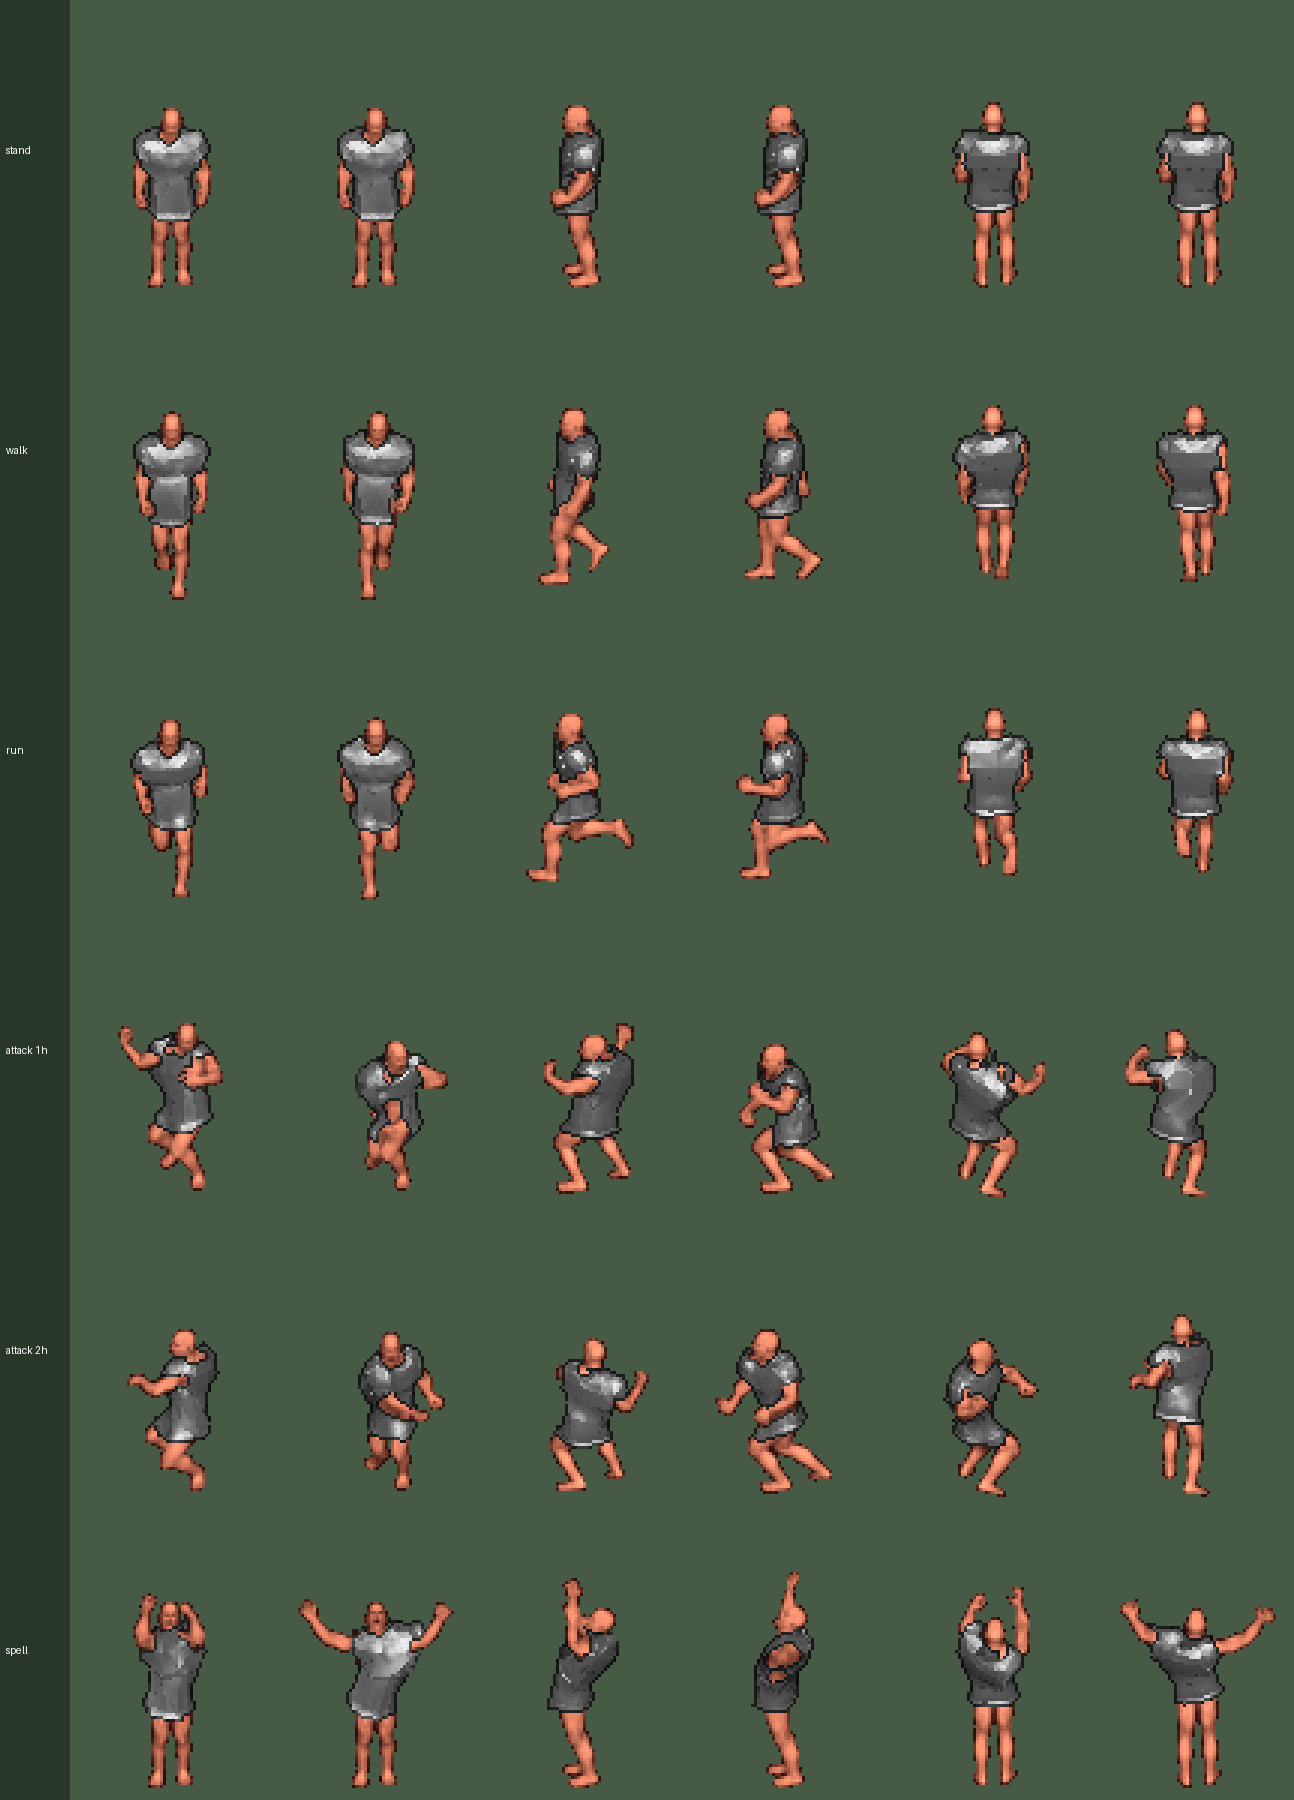
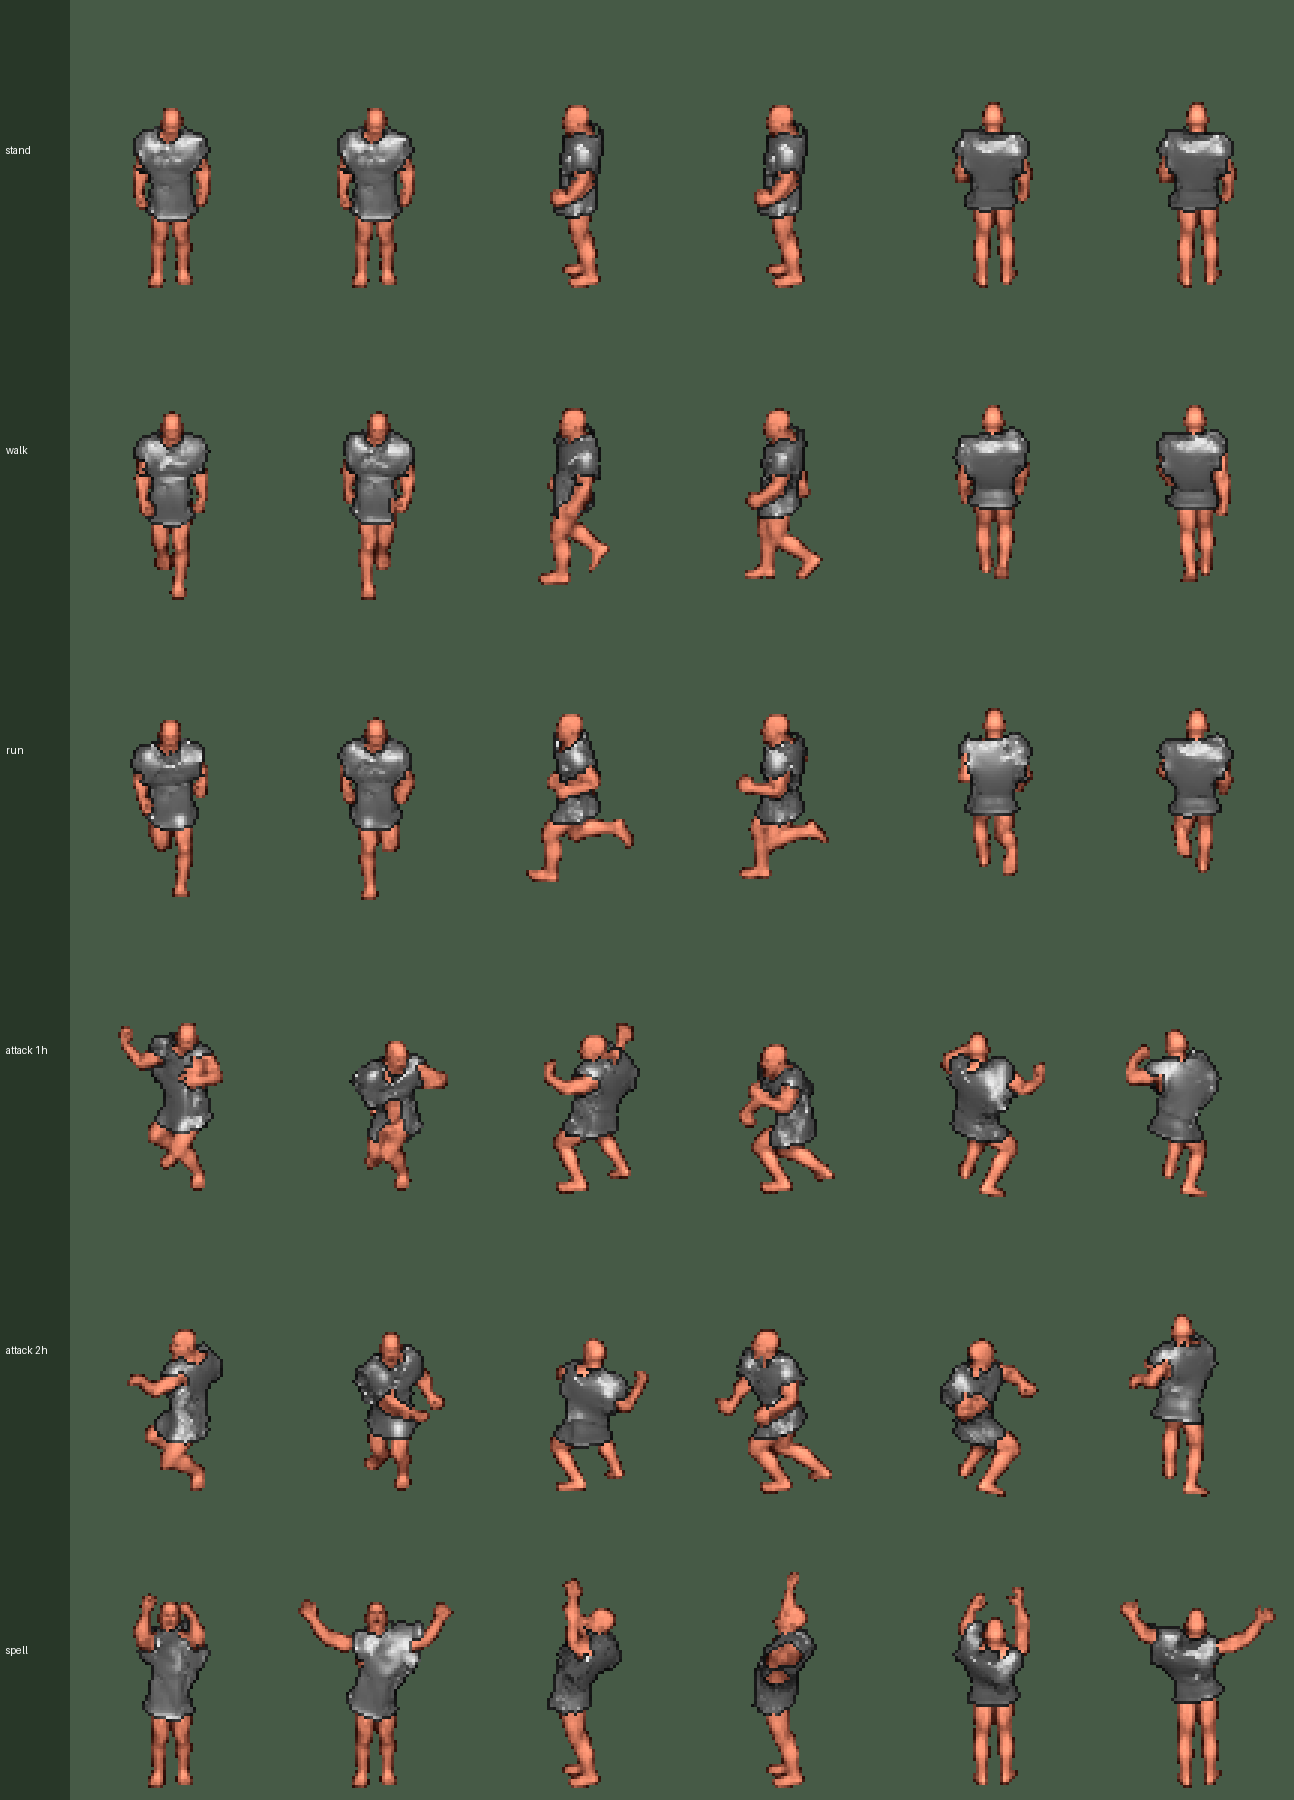
UOModel3D: armour without cracks and facets: split_model.py exports smooth normals (welded: the flat export tore cracks into the shell when densified with rounding, skin showed through), smooth_shade and densify SMOOTH 0.7, uo_pose_clear.py (arms swept through stand / walk / run poses push the rest 
Claude-Session: https://claude.ai/code/session_01VbRUYxzDnzVCbFCuHG6zFr

diff --git a/pipeline/uo_pose_clear.py b/pipeline/uo_pose_clear.py
@@ -1,0 +1,146 @@
+# Make a bound item clear the ARMS (upper arm, forearm, hand) in the poses of the animations, by changing its REST shape. uo_fit_item.py pushes an item out of the skin in the rest
+# pose only; an arm that swings down, forward or up then sinks into the plate at the side or at the armhole, and the renderer (BODY_GAP) has to bend the plate around it frame by
+# frame (bulges, edges that jump, skin showing through). Here the arm is swept through a set of poses: where a posed vertex is closer to the arm skin than GAP, the vertex is pushed out
+# along the arm's surface normal; the push is carried back to the rest shape through the vertex's own skinning matrix (the inverse of the weighted bone matrices) and the largest push over
+# all frames wins (at most CAP). Pushes are smoothed over the mesh, applied, and the next round measures again. Legs are left to the renderer (a hem over the thighs is how plate looks).
+# Run on the SELECTED bound items (uo_bind_item.py first) from Blender's Text Editor or from uo_make_item.py ("pose_clear" in a part of a recipe), then run uo_bind_item.py again
+# (the shape corrections "uo_*" follow the skin under each vertex, so they are made again for the new rest shape).
+import bpy
+import numpy as np
+from mathutils import Vector
+from mathutils.bvhtree import BVHTree
+
+ACTIONS = "04_stand,00_walk_unarmed,02_run_unarmed,07_combat_idle_1h,15_combat_advance"      # arms at the sides, forward and back: where the plate side and the armhole meet the arm. Poses that cross the arm over the body (attack, spell) are left to the renderer
+STEP = 2              # every STEP-th frame of each action
+GAP = 0.012           # m: the item stays this far from the arm skin
+CAP = 0.03            # m: the largest change of the rest shape at one vertex
+ROUNDS = 2            # measure + push + smooth rounds
+SMOOTH = 3            # smoothing passes of the pushes over the mesh edges
+AVOID = ("upper_arm", "forearm", "hand", "finger")      # body parts (vertex group names start with) the item must clear
+REPORT = True
+
+body = bpy.data.objects["UO_Body"]
+rig = bpy.data.objects["UO_Rig"]
+sc = bpy.context.scene
+
+
+def arm_triangles(mesh):
+    names = {g.index: g.name for g in body.vertex_groups}
+    isarm = np.zeros(len(body.data.vertices), bool)
+    for v in body.data.vertices:
+        w = {}
+        for g in v.groups:
+            w[names[g.group]] = w.get(names[g.group], 0.0) + g.weight
+        isarm[v.index] = sum(x for k, x in w.items() if k.startswith(AVOID)) > 0.5 * max(sum(w.values()), 1e-9)
+    return isarm
+
+
+def weight_matrix(ob):
+    """(n, bones) weights of the item's vertex groups that are bones of the rig, rows normalised"""
+    names = [b.name for b in rig.data.bones]; col = {n: i for i, n in enumerate(names)}
+    gname = {g.index: g.name for g in ob.vertex_groups}
+    W = np.zeros((len(ob.data.vertices), len(names)))
+    for v in ob.data.vertices:
+        for g in v.groups:
+            if gname[g.group] in col:
+                W[v.index, col[gname[g.group]]] += g.weight
+    s = W.sum(1, keepdims=True); W = np.where(s > 0, W / np.maximum(s, 1e-12), 0.0)
+    return W, names
+
+
+def skin_linear(W, names):
+    """per vertex: the linear part of its weighted bone matrix (rest -> posed) in the current pose: (n, 3, 3); no weights = identity"""
+    bones = rig.data.bones
+    Lb = np.stack([np.array((rig.matrix_world @ rig.pose.bones[n].matrix @ bones[n].matrix_local.inverted() @ rig.matrix_world.inverted()).to_3x3()) for n in names])
+    A = np.einsum("nb,bij->nij", W, Lb)
+    none = W.sum(1) == 0
+    A[none] = np.eye(3)
+    return A
+
+
+def evaluated_world(ob, dg):
+    ev = ob.evaluated_get(dg); me = ev.to_mesh()
+    co = np.empty(len(me.vertices) * 3, np.float32); me.vertices.foreach_get("co", co)
+    Mw = np.array(ev.matrix_world); ev.to_mesh_clear()
+    return co.reshape(-1, 3).astype(np.float64) @ Mw[:3, :3].T + Mw[:3, 3]
+
+
+def neighbours(ob):
+    e = np.empty(len(ob.data.edges) * 2, np.int32); ob.data.edges.foreach_get("vertices", e)
+    return e.reshape(-1, 2)
+
+
+def run_item(ob, acts, isarm):
+    n = len(ob.data.vertices)
+    E = neighbours(ob); W, bnames = weight_matrix(ob)
+    deg = np.bincount(E.ravel(), minlength=n).astype(float)
+    total = np.zeros((n, 3))
+    for rnd in range(ROUNDS):
+        rig.data.pose_position = "REST"; bpy.context.view_layer.update()
+        best = np.zeros((n, 3)); bestn = np.zeros(n); hits = 0; nfr = 0
+        rig.data.pose_position = "POSE"
+        for a in acts:
+            act = acts[a]
+            rig.animation_data.action = act; rig["uo_direction"] = 0
+            for i in range(0, int(act["uo_frames"]), STEP):
+                sc.frame_set(1 + i * 3); rig.update_tag(); bpy.context.view_layer.update()
+                dg = bpy.context.evaluated_depsgraph_get()
+                eb = body.evaluated_get(dg); mb = eb.to_mesh(); mb.calc_loop_triangles(); Mw = eb.matrix_world
+                co = [Mw @ v.co for v in mb.vertices]
+                tri = [t.vertices[:] for t in mb.loop_triangles if isarm[t.vertices[0]] and isarm[t.vertices[1]] and isarm[t.vertices[2]]]
+                bvh = BVHTree.FromPolygons(co, tri); eb.to_mesh_clear()
+                P = evaluated_world(ob, dg)
+                A = skin_linear(W, bnames)
+                for k in range(n):
+                    p = Vector(P[k]); loc, nrm, fi, d = bvh.find_nearest(p, 0.25)
+                    if loc is None:
+                        continue
+                    s = (p - loc).dot(nrm)
+                    if s >= GAP or (s < 0 and -s < 0.8 * d) or (s >= 0 and d > 1.5 * GAP):          # not above the skin by GAP, or a point beside an open edge of the arm triangles (the nearest skin is not straight under it)
+                        continue
+                    push = np.array(nrm) * (GAP - s)                          # posed push, along the arm's normal
+                    try:
+                        dr = np.linalg.solve(A[k], push)                      # the same push in the rest shape
+                    except np.linalg.LinAlgError:
+                        continue
+                    nr = float(np.linalg.norm(dr))
+                    if nr > bestn[k]:
+                        bestn[k] = nr; best[k] = dr
+                    hits += 1
+                nfr += 1
+        rig.data.pose_position = "REST"; bpy.context.view_layer.update()
+        push = best * np.minimum(1.0, CAP / np.maximum(bestn, 1e-9))[:, None]
+        for _ in range(SMOOTH):                                               # the pushes spread over the mesh (no spikes); a vertex keeps its own push where it is larger
+            acc = np.zeros_like(push)
+            np.add.at(acc, E[:, 0], push[E[:, 1]]); np.add.at(acc, E[:, 1], push[E[:, 0]])
+            acc /= np.maximum(deg, 1)[:, None]
+            push = np.where((np.linalg.norm(acc, axis=1) > np.linalg.norm(push, axis=1))[:, None], acc, push)
+        mw3 = np.array(ob.matrix_world.to_3x3().inverted())
+        local = push @ mw3.T
+        sk = ob.data.shape_keys
+        for blk in (sk.key_blocks if sk else [None]):
+            data = blk.data if blk is not None else ob.data.vertices
+            c = np.empty(n * 3, np.float32); data.foreach_get("co", c)
+            data.foreach_set("co", (c.reshape(-1, 3) + local).ravel().astype(np.float32))
+        ob.data.update()
+        total += push
+        if REPORT and "DBG" in globals():
+            import numpy as _n; dd=_n.array(DBG); print("DBG hits",len(dd),"s pct",_n.round(_n.percentile(dd[:,0],[0,10,50,90,100]),3),"d pct",_n.round(_n.percentile(dd[:,1],[0,50,100]),3))
+        if REPORT:
+            print("uo_pose_clear: %s round %d | %d frames, %d vertices pushed (largest %.1f mm, mean of the pushed %.1f mm)" %
+                  (ob.name, rnd + 1, nfr, int((bestn > 0).sum()), 1000 * bestn.max(), 1000 * (bestn[bestn > 0].mean() if (bestn > 0).any() else 0)))
+        bpy.context.view_layer.update()
+        if bestn.max() < 0.002:
+            break
+    return total
+
+
+acts_all = {int(a["uo_action"]): a for a in bpy.data.actions if "uo_action" in a}
+acts = {int(x[:2]): acts_all[int(x[:2])] for x in ACTIONS.split(",") if int(x[:2]) in acts_all}
+isarm = arm_triangles(body.data)
+saved = rig.data.pose_position
+items = [o for o in bpy.context.selected_objects if o.type == "MESH" and o != body]
+for ob in items:
+    run_item(ob, acts, isarm)
+rig.data.pose_position = saved
+bpy.context.view_layer.update()

diff --git a/pipeline/split_model.py b/pipeline/split_model.py
@@ -1,10 +1,10 @@
 """Split a model that is ONE mesh of several loose parts (a cuirass and two pauldrons in one object) into one object per part, so that a recipe of uo_make_item.py can treat them
 separately ("parts"; `keep` takes whole objects). The vertices are welded first (a model exported with split vertices has one island per face).
 
-    python split_model.py IN.glb OUT.glb [--scale N=sx,sy,sz ...]
+    python split_model.py IN.glb OUT.glb [N=sx,sy,sz ...] [--flat]
     python split_model.py IN.glb --list
 
-The parts are named Part0, Part1, ... (most vertices first, then by x). --scale N=sx,sy,sz stretches part N about its centre (file units): a stylised model whose torso is far too wide for the UO body
+The parts are named Part0, Part1, ... (most vertices first, then by x). N=sx,sy,sz stretches part N about its centre (file units): a stylised model whose torso is far too wide for the UO body
 (0.57,0.63,0.9 for the Quaternius armour) gets the proportions of the body before the autofit makes one uniform scale of it. Run with bpy 4.2 (python -I).
 """
 import os, sys
@@ -17,6 +17,7 @@ def main(argv):
     src = os.path.abspath(argv[0])
     listing = "--list" in argv
     out = None if listing else os.path.abspath(argv[1])
+    SMOOTH = "--flat" not in argv                            # smooth normals: the exporter then keeps the vertices welded (flat shading splits every face from its neighbours, and a later subdivision with rounding tears cracks between them)
     scales = {int(a.split("=")[0]): [float(x) for x in a.split("=")[1].split(",")] for a in argv if "=" in a and not a.startswith("--")}
     bpy.ops.wm.read_factory_settings(use_empty=True)
     bpy.ops.import_scene.gltf(filepath=src)
@@ -45,7 +46,7 @@ def main(argv):
         return
     for k, (x, n, c) in enumerate(info):
         for p in x.data.polygons:
-            p.use_smooth = False
+            p.use_smooth = SMOOTH
         if k in scales:
             s = scales[k]
             for p in x.data.vertices:

diff --git a/pipeline/uo_make_item.py b/pipeline/uo_make_item.py
@@ -216,6 +216,15 @@ for part in %(parts)r:
     else:
         os.environ["UO_PREPARE_EXTRA"] = json.dumps(part.get("tune", {}))
         run("uo_prepare_item.py", KIND=part["kind"], AUTOFIT=False, **part.get("prepare", {}))
+        if part.get("pose_clear") is not None:                       # the arms swept through the poses of the animations: the rest shape is pushed out of them (uo_pose_clear.py), then bound again for the new shape
+            pc = dict(part["pose_clear"]) if isinstance(part["pose_clear"], dict) else {}
+            bind_part = pc.pop("bind", None)
+            select(obs)
+            run("uo_pose_clear.py", **pc)
+            run("uo_bind_item.py", PART=part.get("prepare", {}).get("PART") or bind_part or "chest")
+        if part.get("smooth_shade"):                     # smooth normals: a low-poly model shaded flat shows its facets (they stay visible after densifying)
+            for o in obs:
+                o.data.polygons.foreach_set("use_smooth", [True] * len(o.data.polygons)); o.data.update()
         if part.get("to_bone"):                          # fitted to the skin in the rest pose (pushed out of it), then stiff on one bone of its side: a shoulder cup turns with the upper arm, a sphere round the joint stays round it
             for o in obs:
                 wx = sum((o.matrix_world @ v.co).x for v in o.data.vertices) / len(o.data.vertices)

diff --git a/docs/qa/armor_metal.md b/docs/qa/armor_metal.md
@@ -1,4 +1,4 @@
-# Zbroja metalowa (Quaternius, „Armor Metal”) – pierwszy render (sesja 18)
+# Zbroja metalowa (Quaternius, „Armor Metal”) – render (sesja 18)
 
 Model: jeden obiekt `Armor_Metal2` (352 wierzchołki po sklejeniu, 1 materiał `LightSteel`, bez UV), czyli napierśnik + dwa naramienniki-kopuły (z płetwą). Plik `.glb` od użytkownika **nie jest w repo**
 (licencja do potwierdzenia; Quaternius publikuje zwykle jako CC0). Przepis: `docs/qa/armor_metal_recipe.json`.
@@ -30,3 +30,12 @@ Nowe opcje przepisu części (`uo_make_item.py`): `cup`, `to_bone`, `scale`, `on
 - Skóra widoczna na szyi i nad naramiennikiem (kołnierz napierśnika jest niski): jak w ciele UO bez hełmu.
 - Płetwy naramienników zostały spłaszczone przez limit grubości (`LIMIT` 4 cm).
 - Pełny render `.vd` (35 akcji) nie był robiony: `python pipeline/uo_make_item.py docs/qa/armor_metal_recipe.json --vd`.
+
+## Poprawka po uwagach użytkownika („kanciasta”, „przebija ramię”) i pełny `.vd`
+- **Przyczyna skóry w napierśniku:** `split_model.py` eksportował siatkę z płaskim cieniowaniem, więc każda ścianka miała własne wierzchołki; zaokrąglające zagęszczenie (`uo_densify_item.py`, `SMOOTH` > 0) rozrywało takie wyspy, a w pancerzu powstawały szczeliny. Pomiar: klatek z dziurami w pancerzu (alfa 0 otoczona pancerzem) na stand + chód: 46 z 55 przy rozerwanej siatce, po naprawie 13 z 200 (zostają ramię i ręka przed klatką piersiową, 65-78 px).
+  Teraz `split_model.py` domyślnie eksportuje gładkie normalne (siatka spawana: 204 wierzchołki napierśnika zamiast 1226); `--flat` przywraca stare zachowanie.
+- **Kanciastość:** `smooth_shade` (gładkie normalne po zagęszczeniu) i `uo_densify_item.py` `SMOOTH 0.7` (zaokrąglenie jak Catmull-Clark; fit wypycha z ciała to, co się zapadło). Napierśnik: krawędź 2,2 cm, 4988 wierzchołków.
+- **Ramię w napierśniku:** nowy krok `uo_pose_clear.py` (opcja części `pose_clear`): ramię (łopatka, przedramię, dłoń) przeciągane przez pozy stand / chód / bieg / combat idle / advance; wierzchołek bliżej skóry ramienia niż 12 mm jest wypychany po normalnej ramienia, a przesunięcie wraca do pozy spoczynkowej przez odwrotność macierzy skinningu wierzchołka (max 3 cm, wygładzone, 2 rundy), potem ponowne `uo_bind_item.py`. Pozy z ramieniem skrzyżowanym przez korpus (atak, czar) zostawione rendererowi (BODY_GAP).
+  Napierśnik w kończynach: stand 2,9 → 1,2 %, chód 7,8 → 4,5 %, atak 6,0 → 6,0 %, czar 3,7 → 3,1 %, jazda w biegu 10,6 → 8,2 %. Naramienniki: w tułowiu i kończynach 0-5 %, do 3 cm (czar).
+- Pełny `.vd`: 35 akcji × 5 kierunków = 1050 klatek, 724 KB, 6 minut (`uo_make_item.py docs/qa/armor_metal_recipe.json --vd`). Plik nie jest w repo (jak model).
+- Odrzucone: wydłużony margines zasłaniania przez ciało (`HOLDOUT_MARGIN` 0,03 / 0,05) i `BODY_GAP` 0,02: bez wpływu na dziury (przyczyną były szczeliny siatki, nie zasłanianie).

diff --git a/docs/PRZEKAZANIE.md b/docs/PRZEKAZANIE.md
@@ -76,3 +76,4 @@ Zlecenie: wygenerować darmową zbroję (jedna siatka: napierśnik + 2 naramienn
 Nowe: `pipeline/split_model.py` (spawanie i podział siatki na części, nierówna skala części), opcje części w `uo_make_item.py` (`cup`, `to_bone`, `scale`, `on_bone`, `cut_below`, `arm_share`, `clear_skin`, `tune` per część), `uo_prepare_item.py` `PART` (waga skinu inna niż slotu). Przepis: `docs/qa/armor_metal_recipe.json`, podgląd: `docs/qa/armor_metal/preview_*.png` (skóra pokolorowana, żeby było widać przebicia).
 Wnioski: (1) model stylizowany (napierśnik 2× za szeroki) wymaga nierównej skali przed autofitem; (2) kopułę naramiennika najlepiej wiązać sztywno na `upper_arm` (kula wokół stawu), nie jak skórę; (3) napierśnik z wagami tylko tułowia (`PART torso`) nie daje dziur ze skóry, kończyny wypycha render; (4) `.blend` nie zmieniony (osadzony `uo_prepare_item.py` bez `PART`, `uo_make_item.py` czyta pliki).
 Otwarte: postrzępiony dół na jeździe od przodu, pełny `.vd` nierenderowany, brak testu na innej zbroi.
+Sesja 18, poprawka: skóra „przebijająca” przez napierśnik to były szczeliny w siatce (płaskie cieniowanie + zaokrąglające zagęszczenie): `split_model.py` eksportuje teraz gładkie normalne; nowe opcje części `smooth_shade`, `pose_clear` (`uo_pose_clear.py`: pozy ramion w kształcie spoczynkowym); `docs/qa/armor_metal.md`, część „Poprawka po uwagach”. Pułapka: `sheets` z pustego katalogu klatek daje IndexError, a `os.environ["R"]` w skryptach diagnostycznych bywa nadpisywane przez `exec` innego skryptu.
